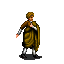
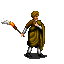
druides

Changed region(s): [[0.0, 0.1562, 0.75, 0.9375]]

diff --git a/public/nextturn.js b/public/nextturn.js
@@ -74,6 +74,7 @@ function nextTurnEnd() {
     let tagIndex;
     deadBatsList = [];
     let boostedTeams = [];
+    let prayedTeams = [];
     medicalTransports = [];
     let thisAPBonus;
     let ravitNum;
@@ -92,7 +93,10 @@ function nextTurnEnd() {
             if (batType.skills.includes('leader') && !boostedTeams.includes(batType.kind)) {
                 boostedTeams.push(batType.kind);
             }
-            if (!medicalTransports.includes(bat.locId) && bat.loc === "trans" && (batType.skills.includes('medic') || batType.skills.includes('badmedic'))) {
+            if (bat.tags.includes('prayer') && !prayedTeams.includes(batType.kind)) {
+                prayedTeams.push(batType.kind);
+            }
+            if (!medicalTransports.includes(bat.locId) && bat.loc === "trans" && batType.skills.includes('medic')) {
                 medicalTransports.push(bat.locId);
             }
             if (!medicalTransports.includes(bat.id) && batType.transUnits >= 1 && batType.skills.includes('medic')) {
@@ -125,6 +129,10 @@ function nextTurnEnd() {
                 ap = ap+1;
                 thisAPBonus = 1;
             }
+            if (prayedTeams.includes(batType.kind)) {
+                ap = ap+1;
+                thisAPBonus = 1;
+            }
             if (playerInfos.medLevel >= 1 && batType.name === 'Toubibs') {
                 ap = ap+1;
             }
@@ -132,7 +140,7 @@ function nextTurnEnd() {
                 ap = ap+2;
                 thisAPBonus = 2;
             }
-            if (playerInfos.skills.includes('trans2') && batType.cat === 'vehicles' && !batType.skills.includes('robot') && thisAPBonus == 0) {
+            if (playerInfos.skills.includes('trans2') && batType.cat === 'vehicles' && !batType.skills.includes('robot') && thisAPBonus <= 1) {
                 ap = ap+1;
             }
             // fastempty
@@ -265,6 +273,12 @@ function tagsUpdate(bat) {
     tagDelete(bat,'noBis1');
     tagDelete(bat,'noBis2');
     tagDelete(bat,'action');
+    if (!bat.tags.includes('prayer') && rand.rand(1,6) === 1) {
+        tagDelete(bat,'spirit');
+    }
+    if (rand.rand(1,3) === 1) {
+        tagDelete(bat,'prayer');
+    }
     if (rand.rand(1,3) <= 2) {
         tagDelete(bat,'stun');
     }

diff --git a/public/infoskills.js b/public/infoskills.js
@@ -182,6 +182,24 @@ function skillsInfos(bat,batUnitType) {
             $('#unitInfos').append('<span class="blockTitle"><'+balise+'><button type="button" title="Pas assez de bol ou de PA" class="boutonGris iconButtons gf"><i class="fas fa-dice-six"></i> <span class="small">'+apCost+'</span></button>&nbsp; Lucky shot</'+balise+'></span>');
         }
     }
+    // PRIERE
+    if (batUnitType.skills.includes('prayer')) {
+        apCost = 7;
+        if (bat.apLeft >= apCost && !bat.tags.includes('prayer') && !bat.tags.includes('spirit') && !inMelee) {
+            $('#unitInfos').append('<span class="blockTitle"><h4><button type="button" title="Prier" class="boutonGris iconButtons" onclick="gloireASatan()"><i class="fas fa-hamsa"></i> <span class="small">'+apCost+'</span></button>&nbsp; Prière</h4></span>');
+        } else {
+            if (inMelee) {
+                skillMessage = "Vous ne pouvez pas prier en mêlée";
+            } else if (bat.tags.includes('prayer')) {
+                skillMessage = "Encore sous l'effet de la prière";
+            } else if (bat.tags.includes('spirit')) {
+                skillMessage = "Aucun signe des Dieux";
+            } else {
+                skillMessage = "Pas assez de PA";
+            }
+            $('#unitInfos').append('<span class="blockTitle"><h4><button type="button" title="'+skillMessage+'" class="boutonGris iconButtons gf"><i class="fas fa-hamsa"></i> <span class="small">'+apCost+'</span></button>&nbsp; Fortification</h4></span>');
+        }
+    }
     // MEDIC
     let baseskillCost;
     if (batUnitType.skills.includes('medic')) {

diff --git a/public/skills.js b/public/skills.js
@@ -22,6 +22,19 @@ function fortification() {
     showBatInfos(selectedBat);
 };
 
+function gloireASatan() {
+    console.log('GLOIRE A SATAN');
+    if (!selectedBat.tags.includes('prayer')) {
+        selectedBat.tags.push('prayer');
+        selectedBat.tags.push('prayer');
+        selectedBat.tags.push('spirit');
+    }
+    selectedBat.salvoLeft = 0;
+    selectedBat.apLeft = selectedBat.apLeft-7;
+    selectedBatArrayUpdate();
+    showBatInfos(selectedBat);
+};
+
 function calcCamo(bat) {
     let batType = getBatType(bat);
     let stealth = getStealth(bat);
